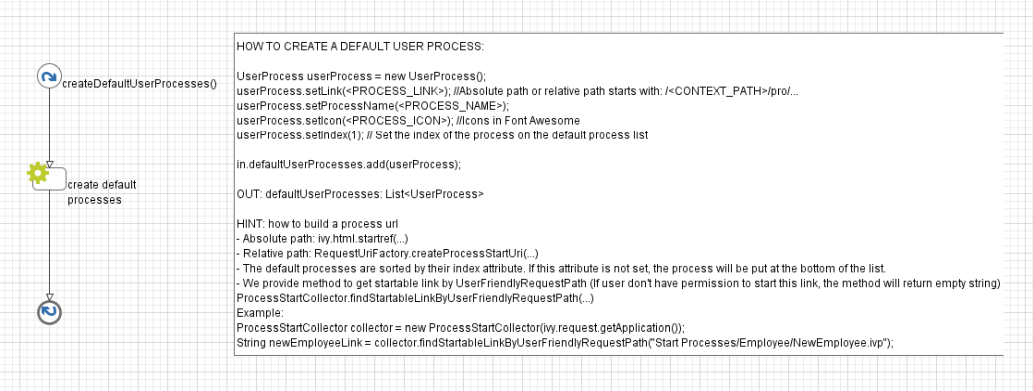
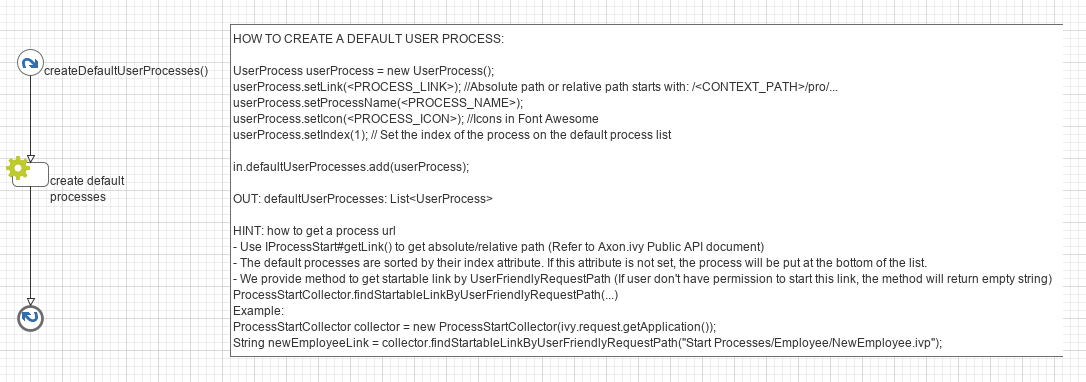
IVYPORTAL-10191 Adapt Portal url changes - Update document, use WebLink#getRelative instead of WebLink#getAbsolute

diff --git a/AxonIvyPortal/PortalKit/src/ch/ivy/addon/portalkit/service/ProcessStartCollector.java b/AxonIvyPortal/PortalKit/src/ch/ivy/addon/portalkit/service/ProcessStartCollector.java
@@ -97,7 +97,7 @@ public class ProcessStartCollector {
   private IProcessStart getProcessStart(String requestPath, IProcessModelVersion processModelVersion) {
     IWorkflowProcessModelVersion workflowPmv =
         WorkflowNavigationUtil.getWorkflowProcessModelVersion(processModelVersion);
-    return workflowPmv.findProcessStartByUserFriendlyRequestPath(requestPath);
+    return workflowPmv.findStartElementByUserFriendlyRequestPath(requestPath);
   }
 
   private List<IProcessStart> findProcessStartRequestPathContainsKeywordAndPmv(String keyword,

diff --git a/AxonIvyPortal/PortalKit/src/ch/ivy/addon/portalkit/ivydata/service/impl/ProcessService.java b/AxonIvyPortal/PortalKit/src/ch/ivy/addon/portalkit/ivydata/service/impl/ProcessService.java
@@ -67,7 +67,7 @@ public class ProcessService implements IProcessService {
 
   private List<IWebStartable> findStartablesWithoutPortalHome(IWorkflowSession session) {
     return session.getStartables().stream()
-        .filter(process -> !process.getLink().getAbsoluteEncoded().endsWith(PORTAL_START_REQUEST_PATH))
+        .filter(process -> !process.getLink().getRelativeEncoded().endsWith(PORTAL_START_REQUEST_PATH))
         .collect(Collectors.toList());
   }
 

diff --git a/AxonIvyPortal/PortalTemplate/src/ch/ivy/addon/portal/generic/bean/AbstractTaskTemplateBean.java b/AxonIvyPortal/PortalTemplate/src/ch/ivy/addon/portal/generic/bean/AbstractTaskTemplateBean.java
@@ -49,7 +49,7 @@ public abstract class AbstractTaskTemplateBean implements Serializable {
 
   public void startSideStep(ITask task) {
     TaskUtils.resetTask(task);
-    PortalNavigator.redirect(selectedSideStep.getStartLink().getAbsoluteEncoded());
+    PortalNavigator.redirect(selectedSideStep.getStartLink().getRelativeEncoded());
   }
 
   public boolean hasExpressAdhocWF() {

diff --git a/AxonIvyPortal/PortalTemplate/src/ch/ivy/addon/portal/generic/bean/DeprecatedTaskTemplate7Bean.java b/AxonIvyPortal/PortalTemplate/src/ch/ivy/addon/portal/generic/bean/DeprecatedTaskTemplate7Bean.java
@@ -51,7 +51,7 @@ public class DeprecatedTaskTemplate7Bean implements Serializable{
   }
 
   public void startSideStep() {
-    PortalNavigator.redirect(selectedSideStep.getStartLink().getAbsoluteEncoded());
+    PortalNavigator.redirect(selectedSideStep.getStartLink().getRelativeEncoded());
   }
 
   public boolean hasExpressAdhocWF() {
